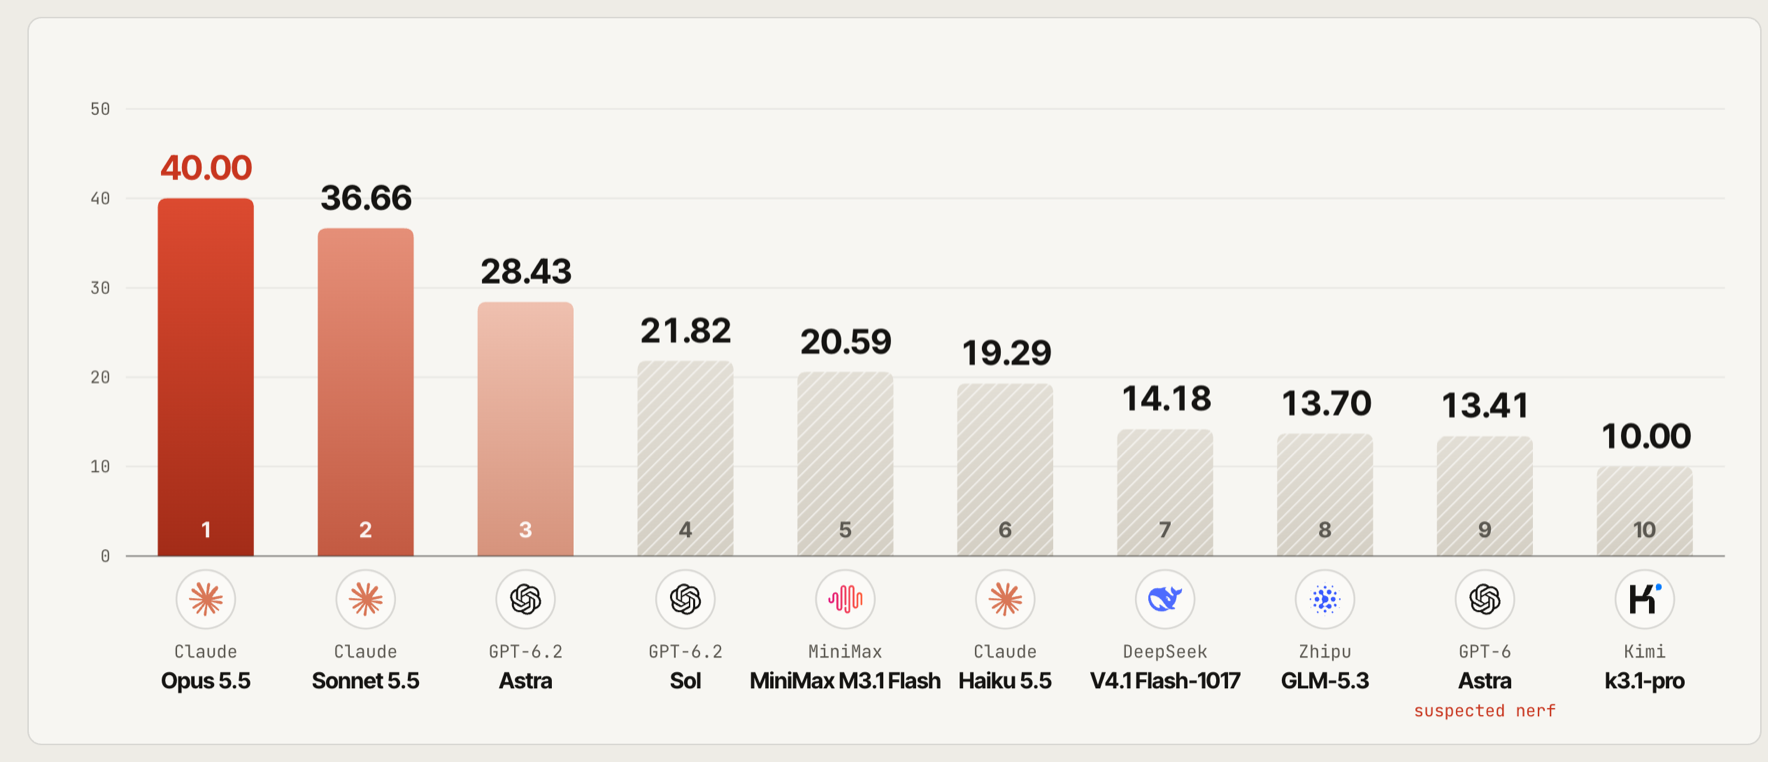
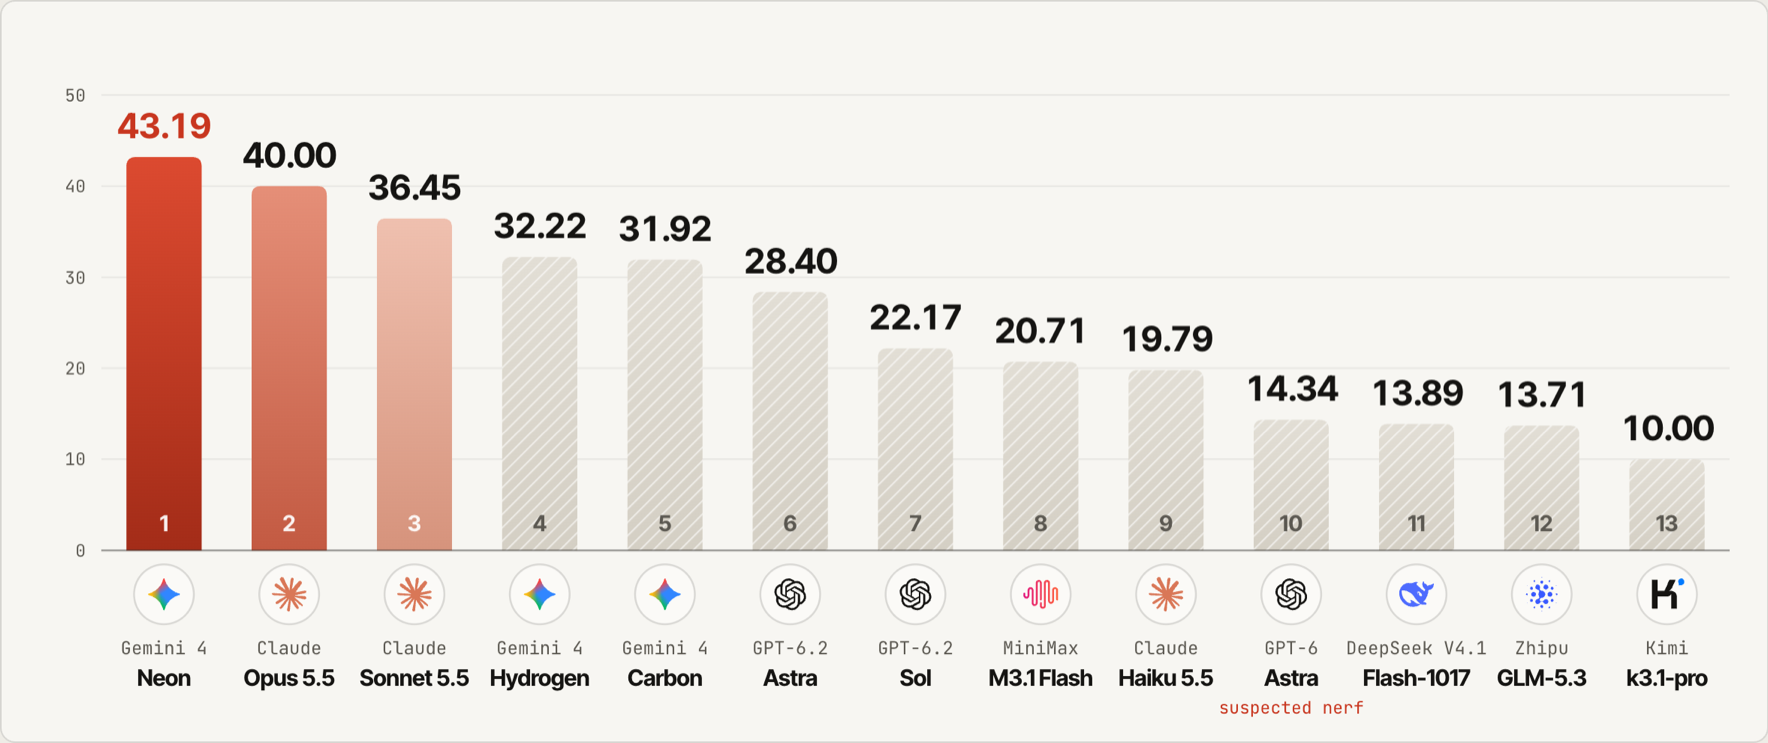
README: Gemini 4 Neon, Carbon and Hydrogen on the leaderboard (13 models)
News item for the 11-22 update; the overall-score chart and the per-task table re-shot from the
live leaderboard; the footnote gives the Gemini 4 setup (Antigravity CLI, highest effort, 10 h)
and how runs past the API-pause allowance were continued.

Changed region(s): [[0.0311, 0.031, 1.0, 0.9596], [0.0311, 0.1238, 0.0622, 0.1548]]

diff --git a/README.md b/README.md
@@ -26,6 +26,7 @@
 
 ## News
 
+- <img src="https://img.shields.io/badge/UPDATE-0891B2?style=flat-square" alt="UPDATE" height="18"> **2026-11-22** · **Gemini 4 Neon, Carbon and Hydrogen** join the [leaderboard](https://ai4ai-for-anything.github.io/blog/rsi-infra-bench/leaderboard/index.html), now 13 models. Gemini 4 Neon ranks first with 43.19, ahead of Claude Opus 5.5 (40.00); Hydrogen and Carbon rank fourth and fifth. The traces of all 24 runs are on the leaderboard site.
 - <img src="https://img.shields.io/badge/RELEASE-6250D6?style=flat-square" alt="RELEASE" height="18"> **2026-11-17** · We release **RSI-Infra Bench Preview**. See the [leaderboard](https://ai4ai-for-anything.github.io/blog/rsi-infra-bench/leaderboard/index.html) and the [blog post](https://ai4ai-for-anything.github.io/blog/rsi-infra-bench/) on what separates the models.
 
 ## LeaderBoard
@@ -49,6 +50,8 @@ Final judged speedups against each task’s baseline.
 
 <sub>\* GPT-6 Astra: suspected nerf; it feels different from our early testing.
 GPT-6.2 Astra (18 November) and GPT-6.2 Sol (19 November) joined with the same setup (Codex, reasoning effort max, 10 hours).
+Gemini 4 Neon, Carbon and Hydrogen (20 November) ran in Google's Antigravity CLI at each model's highest reasoning effort (Neon and Hydrogen xhigh, Carbon high), 10 hours per task.
+Where API stalls exceeded the 6-hour pause allowance, the lost time was run as a continuation of the same conversation; each such trace says so.
 Scores come from an ECI fit over all models together, so every rank is dynamic:
 each new model refits the scale, and the scores and ranks of the others can move.</sub>
 
